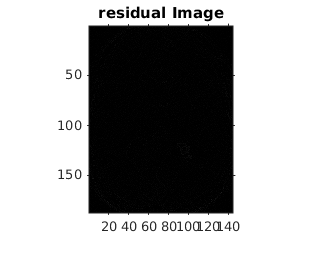
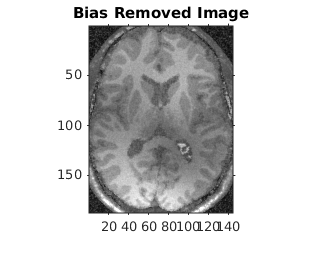
Add Readme and a few changes

diff --git a/120050087_120050041_13D070003_assignment4/1/code/plotImages.m b/120050087_120050041_13D070003_assignment4/1/code/plotImages.m
@@ -12,7 +12,7 @@ figure; imshow(class_membership(:,:,3)); title('Class 3 Binary');
 figure; imshow(cropped_image); title('corrupted input Image(cropped)');
 figure; imshow(bias_field); title('Bias Removed Image');
 figure; imshow(bias_removed_image); title('optimal bias field');
-figure; imshow(residual_image); title('residual Image');
+figure; imshow(residual_image,[]); title('residual Image');
 
 %% Log(Objective)vs iterations
 figure;plot(objective_function);

diff --git a/120050087_120050041_13D070003_assignment4/1/code/performFCM.m b/120050087_120050041_13D070003_assignment4/1/code/performFCM.m
@@ -6,10 +6,10 @@ function [segmented_image, class_membership, class_means, bias_field, bias_remov
 objective_function = [];
 
 weights = fspecial('gaussian');
+figure;imshow(weights,[]);
 bias_field = 0.5*ones(m,n);
 
 [reference_image,initial_means] = kmeans(reshape(cropped_image,[m*n,1]),4);
-
 reference_image =reshape(reference_image,[m,n]);
 initial_segment=zeros(m,n,3);
 j=0;

diff --git a/120050087_120050041_13D070003_assignment4/1/Readme.md b/120050087_120050041_13D070003_assignment4/1/Readme.md
@@ -1,0 +1,6 @@
+The code is in code folder.
+The report is in the html folder of the report folder (just open it in chrome).
+The weights were very small (3*3) so I have not displayed them in the report, you can have a look at the image however from the report folder.
+
+ALso note that the residual image was displayed using imshow(image,[]); which enhances the features in the image so that they become more visibly clear.
+The actual image does have features but it hard to look at them with normal imshow. 
